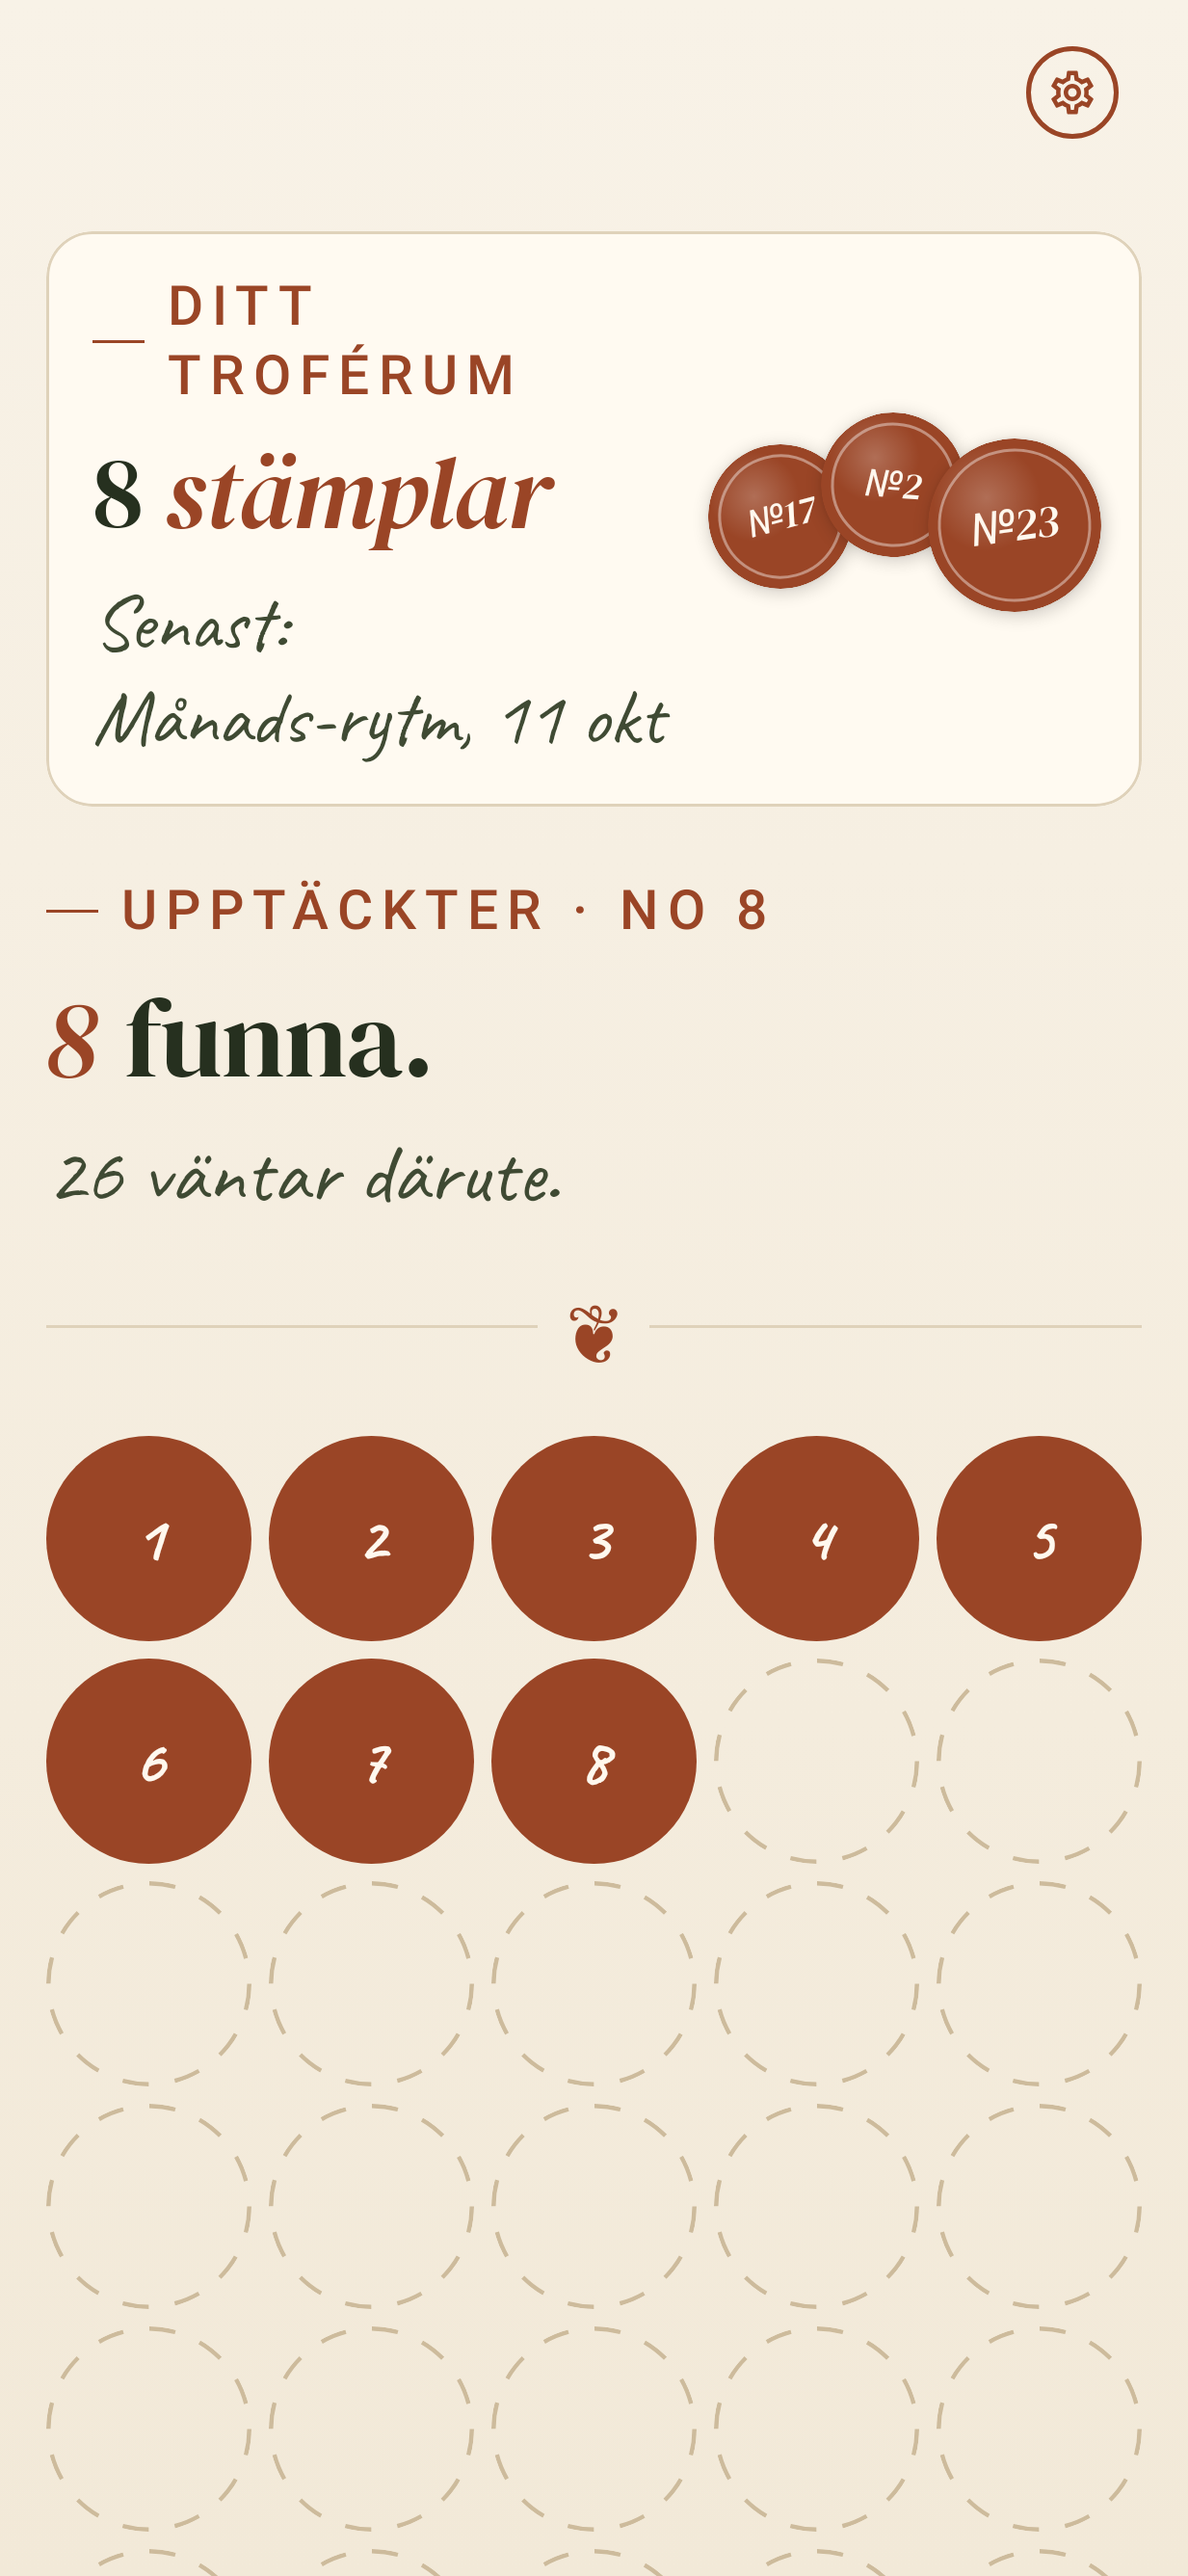
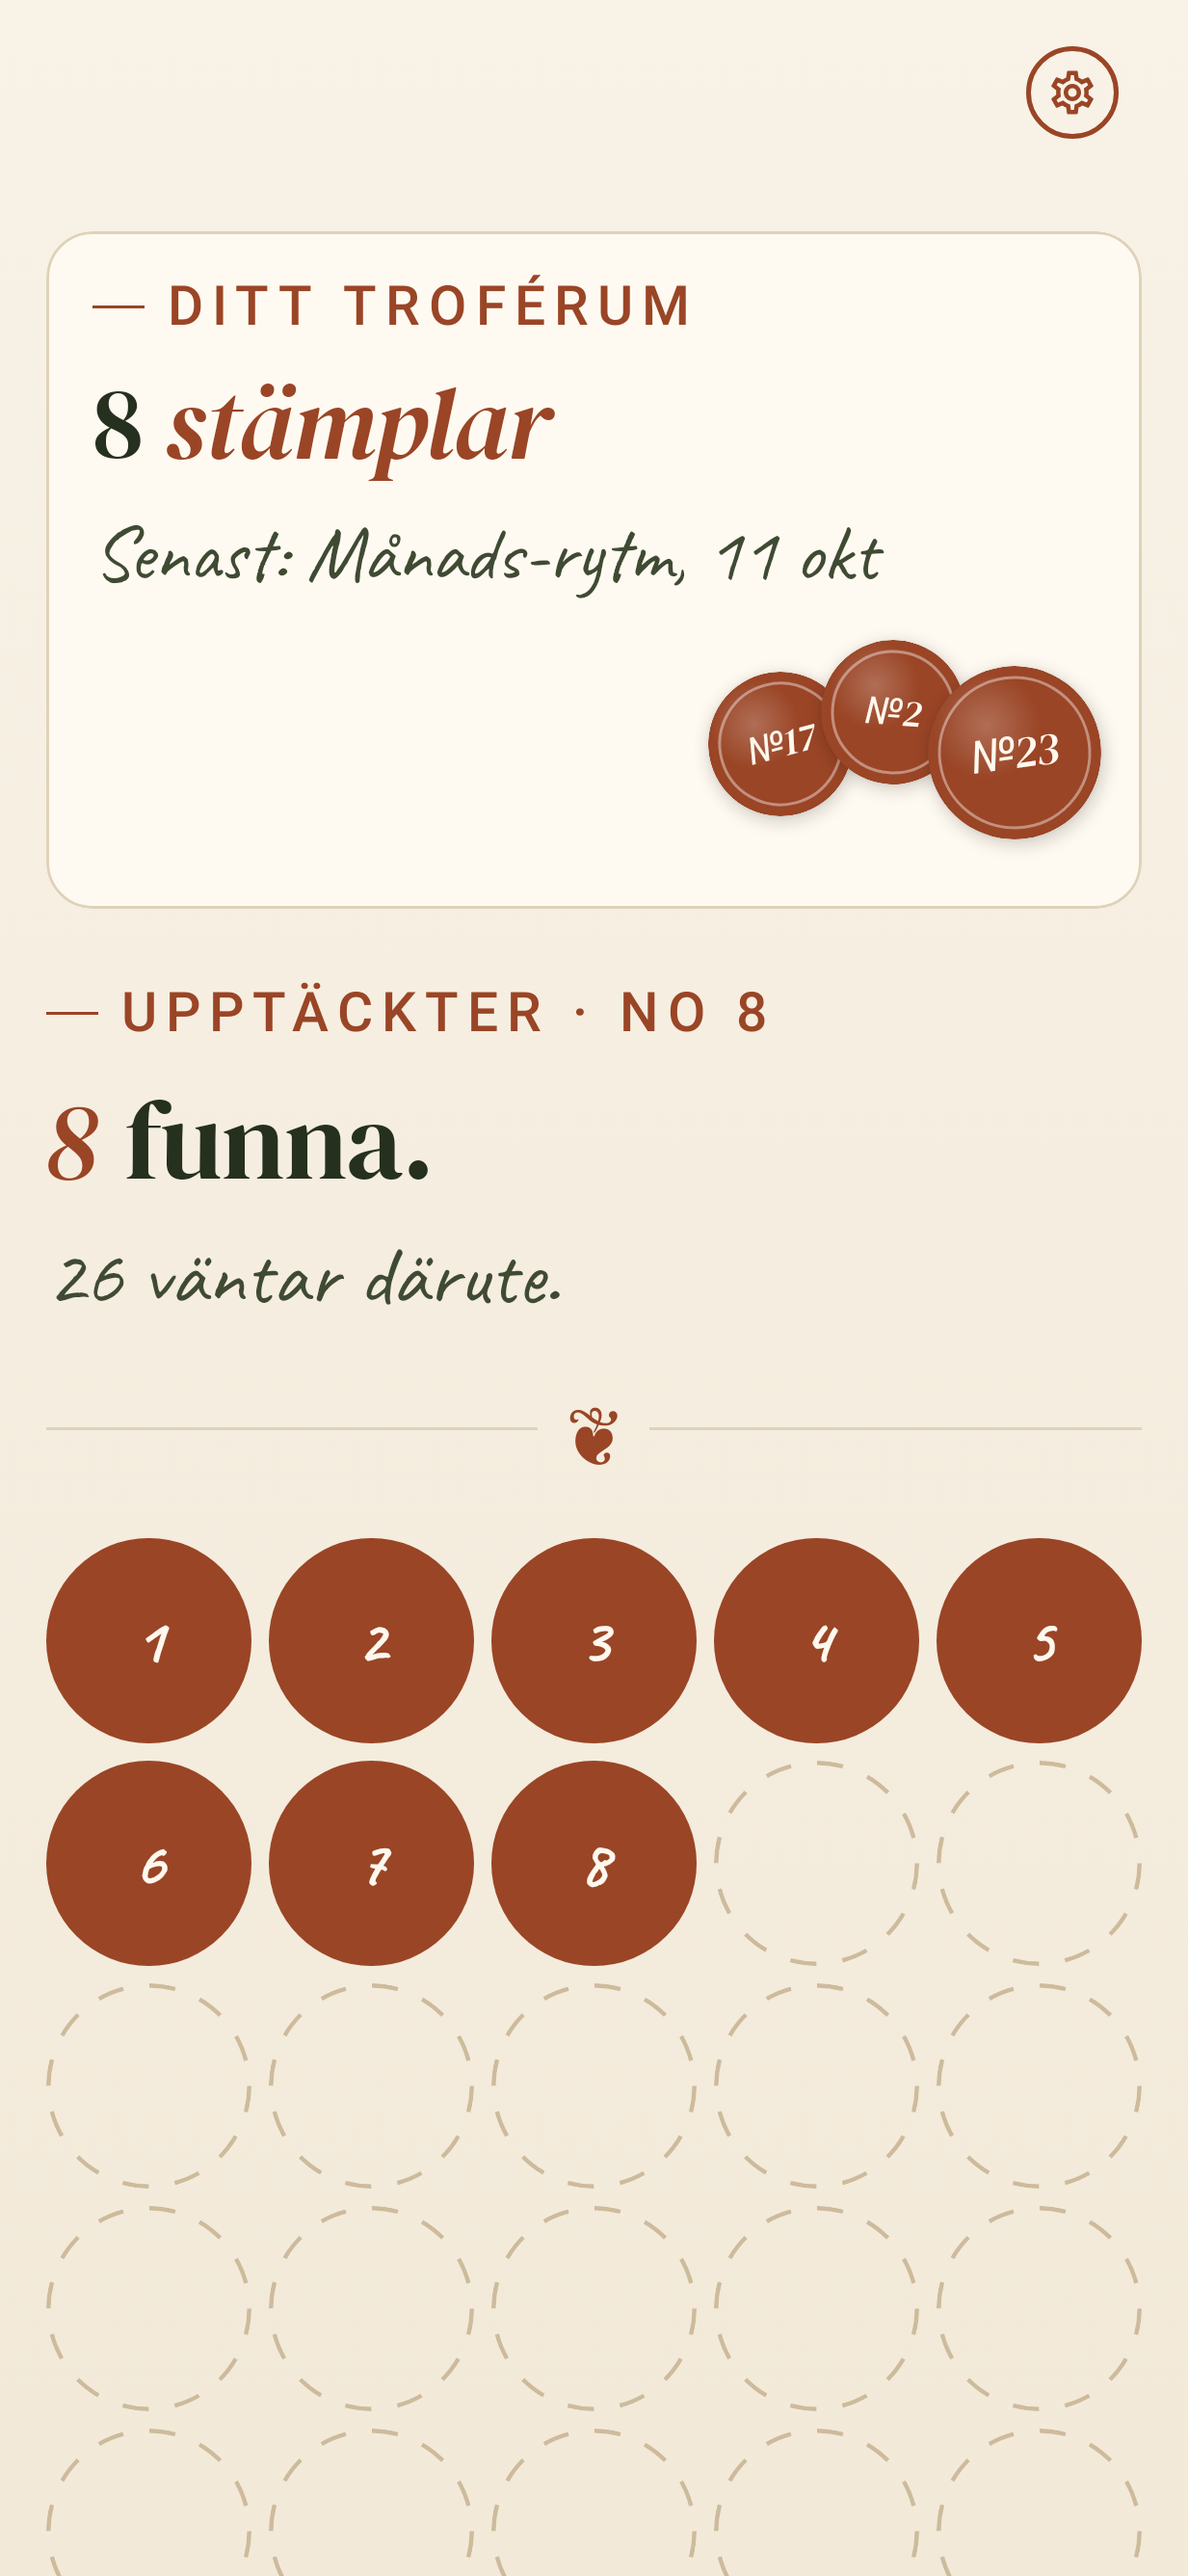
fix(badges): troférumskortet håller rubriken hel vid stor text, fast klocka i skärmbilderna
Fixvåg efter specgranskningen av Task 7k.

- Kortet mäter nu även rubriken ("DITT TROFÉRUM" med sitt streck) och
  etiketten med märkets namn ("Senast: Månads-rytm,") innan sigillen får
  stå bredvid texten. Får de inte plats på en rad hamnar sigillen under
  texten; vid 2,0x på en 411dp-telefon bröts annars rubriken i två rader
  och "Senast:" stod ensam. Nya layouttester vid 1,0x, 1,5x och 2,0x.
- BadgesScreen tar ett `now` (standard: riktiga klockan, läst en gång),
  så skärmbildstestet kan låsa datumet; produktionen är oförändrad.
- Nya skärmbilder badges_en_200 och badges_empty_sv_200; badges_sv_200
  omtagen.

diff --git a/composeApp/src/commonMain/kotlin/se/birdy/app/ui/badges/TrophyRoomEntryCard.kt b/composeApp/src/commonMain/kotlin/se/birdy/app/ui/badges/TrophyRoomEntryCard.kt
@@ -26,7 +26,9 @@ import androidx.compose.ui.text.AnnotatedString
 import androidx.compose.ui.text.SpanStyle
 import androidx.compose.ui.text.TextStyle
 import androidx.compose.ui.text.buildAnnotatedString
+import androidx.compose.ui.text.font.FontFamily
 import androidx.compose.ui.text.font.FontStyle
+import androidx.compose.ui.text.font.FontWeight
 import androidx.compose.ui.text.rememberTextMeasurer
 import androidx.compose.ui.text.withStyle
 import androidx.compose.ui.unit.Dp
@@ -59,11 +61,16 @@ import se.birdy.content.Locale
 private val EntryShape = RoundedCornerShape(16.dp)
 private val TextToFanGap = 12.dp
 
-/** What the card says. [count] is null on the empty card, which has only the [line]. */
+/**
+ * What the card says. [count] is null on the empty card, which has only the [line]. [lineHead] is
+ * the part of the line that must stay on one line ("Senast: Månads-rytm,"; null when empty).
+ */
 @Immutable
 private data class EntryTexts(
+    val kicker: String,
     val count: String?,
     val line: String,
+    val lineHead: String?,
     val a11y: String,
 )
 
@@ -138,18 +145,24 @@ private fun entryTexts(
     zone: TimeZone,
     now: Instant,
 ): EntryTexts {
+    val kicker = stringResource(Res.string.trophy_room_entry_eyebrow)
     if (latest == null) {
         return EntryTexts(
+            kicker = kicker,
             count = null,
             line = stringResource(Res.string.trophy_room_entry_first_stamp),
+            lineHead = null,
             a11y = stringResource(Res.string.trophy_room_entry_empty_a11y),
         )
     }
     val name = stringResource(BadgeStringMap.nameFor(latest.badge.id))
     val date = formatRelativeBadgeDate(latest.unlockedAt, now, zone, locale)
     return EntryTexts(
+        kicker = kicker,
         count = pluralStringResource(Res.plurals.trophy_room_entry_stamps, unlockedCount, unlockedCount),
         line = stringResource(Res.string.trophy_room_entry_latest, name, date),
+        // The line without its date: the label and the badge name, which must not part.
+        lineHead = stringResource(Res.string.trophy_room_entry_latest, name, "").trimEnd(),
         a11y =
             pluralStringResource(Res.plurals.trophy_room_entry_stamps_a11y, unlockedCount, unlockedCount, name, date),
     )
@@ -163,7 +176,7 @@ private fun EntryTextBlock(
     modifier: Modifier = Modifier,
 ) {
     Column(modifier = modifier, verticalArrangement = Arrangement.spacedBy(4.dp)) {
-        MicroLabel(stringResource(Res.string.trophy_room_entry_eyebrow))
+        MicroLabel(texts.kicker)
         if (texts.count != null) Text(text = stampCountText(texts.count), style = countStyle)
         Text(text = texts.line, style = lineStyle)
     }
@@ -196,9 +209,10 @@ private fun lineTextStyle(empty: Boolean): TextStyle {
 }
 
 /**
- * How wide the text beside the seals must be, at the current text size: the count ("8 stämplar")
- * on one line and the widest single word of the handwritten line. Narrower than that, the count
- * would split or a word would break in two, so the seals go below the text instead.
+ * How wide the text beside the seals must be, at the current text size, for each piece to stay
+ * whole: the kicker ("── DITT TROFÉRUM") and the count ("8 stämplar") on one line each, the label
+ * and the badge name ("Senast: Månads-rytm,") together, and every word of the handwritten line.
+ * Narrower than that, the seals go below the text instead.
  */
 @Composable
 private fun textNeeds(
@@ -208,12 +222,29 @@ private fun textNeeds(
 ): Dp {
     val measurer = rememberTextMeasurer()
     val density = LocalDensity.current
-    return remember(texts, countStyle, lineStyle, measurer, density) {
-        val countWidth = texts.count?.let { measurer.measure(stampCountText(it), countStyle).size.width } ?: 0
-        val lineWords = texts.line.split(' ').map { measurer.measure(it, lineStyle).size.width }
-        with(density) { maxOf(countWidth, lineWords.maxOrNull() ?: 0).toDp() }
+    val kickerStyle = LocalTextStyle.current.merge(MicroLabelMeasureStyle)
+    return remember(texts, countStyle, lineStyle, kickerStyle, measurer, density) {
+        val rule = with(density) { MicroLabelRule.roundToPx() }
+        val kicker = measurer.measure(texts.kicker.uppercase(), kickerStyle).size.width + rule
+        val count = texts.count?.let { measurer.measure(stampCountText(it), countStyle).size.width } ?: 0
+        val head = texts.lineHead?.let { measurer.measure(it, lineStyle).size.width } ?: 0
+        val words = texts.line.split(' ').maxOfOrNull { measurer.measure(it, lineStyle).size.width } ?: 0
+        with(density) { maxOf(kicker, count, head, words).toDp() }
     }
 }
+
+// MicroLabel's look (components/MicroLabel.kt): an 18dp rule and an 8dp gap before Inter caps at
+// 9.5sp, W600, 0.16em. Mirrored here only to measure it; the layout tests catch a drift (the
+// kicker must stay on one line beside the seals at 1.0x and 1.5x on 411dp).
+private val MicroLabelRule = 26.dp
+private val MicroLabelMeasureStyle =
+    TextStyle(
+        fontFamily = FontFamily.SansSerif,
+        fontSize = 9.5.sp,
+        lineHeight = 12.sp,
+        fontWeight = FontWeight.W600,
+        letterSpacing = 0.16.em,
+    )
 
 /** "8 *stämplar*": the number upright, the word in rust italic, as in every journal headline. */
 private fun stampCountText(text: String): AnnotatedString =

diff --git a/composeApp/src/androidUnitTest/kotlin/se/birdy/app/ui/badges/TrophyRoomEntryCardTest.kt b/composeApp/src/androidUnitTest/kotlin/se/birdy/app/ui/badges/TrophyRoomEntryCardTest.kt
@@ -5,6 +5,7 @@ import androidx.compose.foundation.layout.Column
 import androidx.compose.foundation.layout.fillMaxWidth
 import androidx.compose.foundation.layout.padding
 import androidx.compose.ui.Modifier
+import androidx.compose.ui.semantics.SemanticsActions
 import androidx.compose.ui.semantics.SemanticsNode
 import androidx.compose.ui.semantics.SemanticsProperties
 import androidx.compose.ui.semantics.getOrNull
@@ -14,6 +15,7 @@ import androidx.compose.ui.test.junit4.createComposeRule
 import androidx.compose.ui.test.onNodeWithContentDescription
 import androidx.compose.ui.test.onNodeWithText
 import androidx.compose.ui.test.performClick
+import androidx.compose.ui.text.TextLayoutResult
 import androidx.compose.ui.unit.dp
 import kotlinx.datetime.Instant
 import kotlinx.datetime.TimeZone
@@ -216,6 +218,72 @@ class TrophyRoomEntryCardTest {
         compose
             .onNodeWithContentDescription("Your trophy room. Your first stamp awaits. Open.")
             .assertHasClickAction()
+    }
+
+    private fun textNode(text: String): SemanticsNode = compose.onNodeWithText(text, useUnmergedTree = true).fetchSemanticsNode()
+
+    private fun layoutOf(text: String): TextLayoutResult {
+        val results = mutableListOf<TextLayoutResult>()
+        textNode(text).config[SemanticsActions.GetTextLayoutResult].action?.invoke(results)
+        return results.single()
+    }
+
+    /** True when the label and the badge name ("Senast: Månads-rytm,") share the first line. */
+    private fun headOnFirstLine(
+        line: String,
+        head: String,
+    ): Boolean = layoutOf(line).getLineEnd(0, visibleEnd = true) >= head.length
+
+    @Test
+    @Config(qualifiers = "+sv")
+    fun `at 1_5x on a 411dp phone the seals stay beside a one-line kicker`() {
+        RuntimeEnvironment.setFontScale(1.5f)
+        show(listOf(monthlyRhythm, redlisted, bronze), count = 8)
+        assertEquals(1, layoutOf("DITT TROFÉRUM").lineCount, "the kicker stays on one line")
+        assertTrue(headOnFirstLine("Senast: Månads-rytm, 11 okt", "Senast: Månads-rytm,"), "Senast: stays with the name")
+        val text = textNode("Senast: Månads-rytm, 11 okt").boundsInRoot
+        val newest = fanSeals().last().boundsInRoot
+        assertTrue(newest.left >= text.right, "the seals sit beside the text: text $text, seal $newest")
+    }
+
+    @Test
+    @Config(qualifiers = "+sv")
+    fun `at 1_0x on a 411dp phone the card keeps the design layout`() {
+        show(listOf(monthlyRhythm, redlisted, bronze), count = 8)
+        assertEquals(1, layoutOf("DITT TROFÉRUM").lineCount)
+        assertEquals(1, layoutOf("Senast: Månads-rytm, 11 okt").lineCount)
+        val text = textNode("Senast: Månads-rytm, 11 okt").boundsInRoot
+        assertTrue(fanSeals().last().boundsInRoot.left >= text.right, "the seals sit beside the text")
+    }
+
+    @Test
+    @Config(qualifiers = "+sv")
+    fun `at 2_0x on a 411dp phone the kicker would wrap beside the seals, so they go below`() {
+        RuntimeEnvironment.setFontScale(2.0f)
+        show(listOf(monthlyRhythm, redlisted, bronze), count = 8)
+        assertEquals(1, layoutOf("DITT TROFÉRUM").lineCount, "the kicker stays on one line")
+        assertTrue(headOnFirstLine("Senast: Månads-rytm, 11 okt", "Senast: Månads-rytm,"), "Senast: stays with the name")
+        val text = textNode("Senast: Månads-rytm, 11 okt").boundsInRoot
+        fanSeals().forEach { seal ->
+            assertTrue(seal.boundsInRoot.top >= text.bottom, "the seals sit below the text: text $text, seal ${seal.boundsInRoot}")
+        }
+    }
+
+    @Test
+    @Config(qualifiers = "+en")
+    fun `at 2_0x on a 411dp phone the english kicker and latest line stay whole`() {
+        RuntimeEnvironment.setFontScale(2.0f)
+        show(listOf(monthlyRhythm, redlisted, bronze), count = 8, locale = Locale.EN)
+        assertEquals(1, layoutOf("YOUR TROPHY ROOM").lineCount)
+        assertTrue(headOnFirstLine("Latest: Monthly rhythm, Oct 11", "Latest: Monthly rhythm,"))
+    }
+
+    @Test
+    @Config(qualifiers = "+sv")
+    fun `at 2_0x the empty card keeps its kicker on one line`() {
+        RuntimeEnvironment.setFontScale(2.0f)
+        show(emptyList())
+        assertEquals(1, layoutOf("DITT TROFÉRUM").lineCount)
     }
 
     // The longest single words among the badge names (Rödlistemästare, Rovfågelskådare,

diff --git a/composeApp/src/androidUnitTest/kotlin/se/birdy/app/screenshots/BadgesScreenshotTest.kt b/composeApp/src/androidUnitTest/kotlin/se/birdy/app/screenshots/BadgesScreenshotTest.kt
@@ -37,7 +37,9 @@ class BadgesScreenshotTest {
     @get:Rule
     val compose = createComposeRule()
 
+    // A fixed clock and zone: BadgesScreen reads dates against "now" (the year shows once it differs).
     private val zone = TimeZone.of("Europe/Stockholm")
+    private val now = Instant.parse("2026-10-12T10:00:00Z")
 
     // The catalog's free badges in stamp order (№1 to №27), then the seven Premium ones.
     private val regular =
@@ -136,6 +138,7 @@ class BadgesScreenshotTest {
             onSettingsClick = {},
             onPremiumClick = {},
             onOpenTrophyRoom = {},
+            now = now,
         )
     }
 
@@ -174,7 +177,21 @@ class BadgesScreenshotTest {
         capture("badges_sv_200", earned, Locale.SV)
     }
 
-    // A narrow phone at 2.0×: "8 stämplar" no longer fits on one line beside the seals, so they move below.
+    @Test
+    @Config(qualifiers = "+en")
+    fun badges_en_200() {
+        RuntimeEnvironment.setFontScale(2.0f)
+        capture("badges_en_200", earned, Locale.EN)
+    }
+
+    @Test
+    @Config(qualifiers = "+sv")
+    fun badges_empty_sv_200() {
+        RuntimeEnvironment.setFontScale(2.0f)
+        capture("badges_empty_sv_200", emptyList(), Locale.SV)
+    }
+
+    // A narrow phone at 2.0×: the text no longer fits beside the seals, so they move below it.
     @Test
     @Config(qualifiers = "+sv-w360dp")
     fun badges_w360_sv_200() {

diff --git a/composeApp/src/commonMain/kotlin/se/birdy/app/ui/badges/BadgesScreen.kt b/composeApp/src/commonMain/kotlin/se/birdy/app/ui/badges/BadgesScreen.kt
@@ -72,6 +72,14 @@ import se.birdy.domain.badge.Badge
 import se.birdy.domain.badge.BadgeTier
 import se.birdy.domain.badge.BadgeUnlock
 
+/**
+ * The Märken tab. [now] is the moment badge dates are read against (a date shows its year only
+ * when the year differs); it defaults to the real clock, read once, and tests pin it.
+ *
+ * LongParameterList: over the threshold before 1.3.0 (baselined); adding `now` changed the
+ * baseline's exact signature match, so this is a justified suppress, not a baseline edit.
+ */
+@Suppress("LongParameterList")
 @Composable
 fun BadgesScreen(
     state: BadgesUiState,
@@ -84,9 +92,9 @@ fun BadgesScreen(
     onOpenTrophyRoom: () -> Unit,
     showPremiumTeaser: Boolean = true,
     modifier: Modifier = Modifier,
+    now: Instant = remember { Clock.System.now() },
 ) {
     var selectedLocked: LockedBadgeProgress? by remember { mutableStateOf(null) }
-    val now = remember { Clock.System.now() }
 
     JournalScaffold(modifier = modifier) { padding ->
         Box(modifier = Modifier.fillMaxSize().padding(padding)) {
